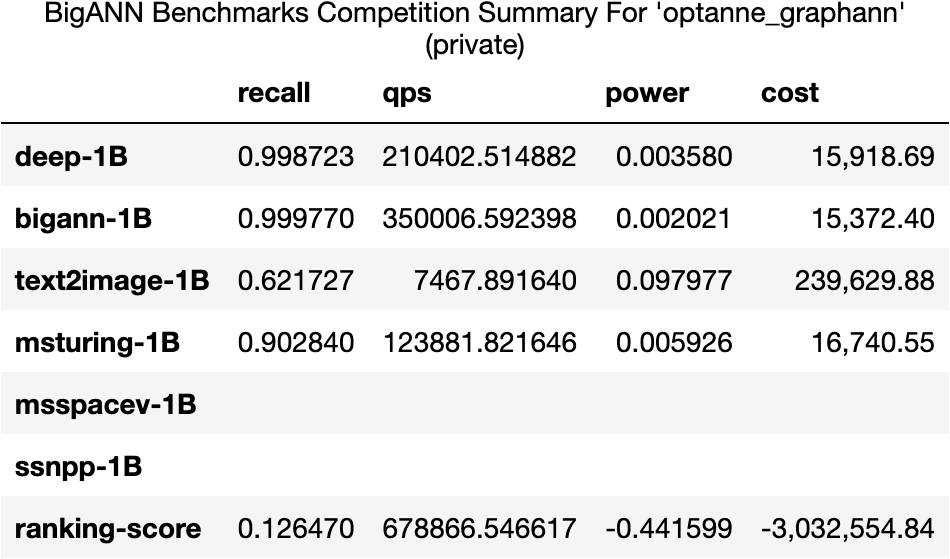
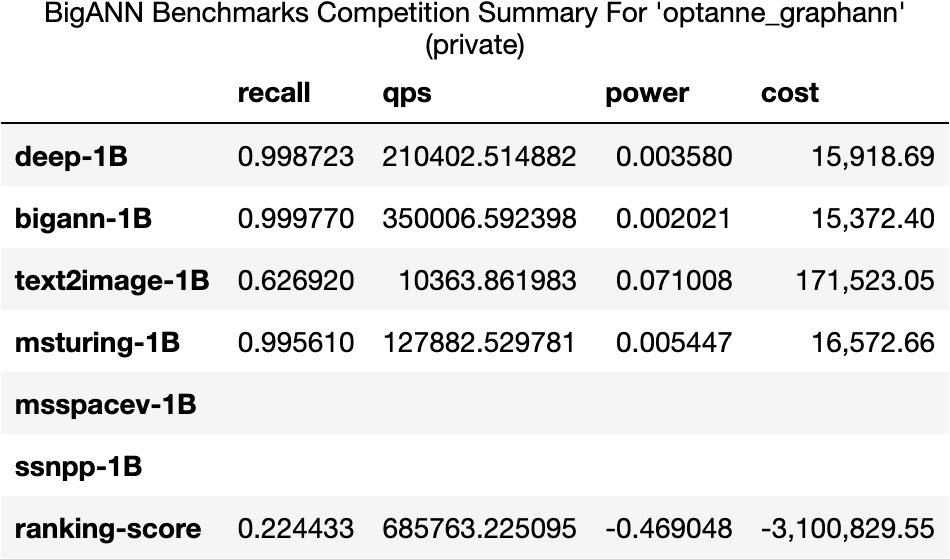
latest private LB for all submissions ( ivfpq still needs re-run based on nvidia power capture )

diff --git a/t3/run_eval.py b/t3/run_eval.py
@@ -59,8 +59,10 @@ SUBM_MAPPING            = \
         # last -  "results_dir":  "%s/intel/results_updated_config_with_anomaly_mitigation" % CACHE_RESULTS_TOPLEVEL,
         # last - "results_dir":  ( "%s/intel/public/results_final_changes_to_3_dsets" %  CACHE_RESULTS_TOPLEVEL ) if PUBLIC else \
         #    "%s/intel/private/results_intel_priv_all" % CACHE_RESULTS_TOPLEVEL, 
+        # last - "results_dir":  ( "%s/intel/public/results_final_changes_to_3_dsets" %  CACHE_RESULTS_TOPLEVEL ) if PUBLIC else \
+        #    "%s/intel/private/results_intel_priv_synced_config_all" % CACHE_RESULTS_TOPLEVEL, 
         "results_dir":  ( "%s/intel/public/results_final_changes_to_3_dsets" %  CACHE_RESULTS_TOPLEVEL ) if PUBLIC else \
-            "%s/intel/private/results_intel_priv_synced_config_all" % CACHE_RESULTS_TOPLEVEL, 
+            "%s/intel/private/results_intel_priv_merged_sync_1_2" % CACHE_RESULTS_TOPLEVEL, 
         "export_fname": "public_w_cache_detect.csv" if PUBLIC else \
             "private_w_cache_detect.csv",
         "cache_detect": True,
@@ -674,6 +676,7 @@ if __name__ == "__main__":
         #subms = [ "gemini", "faiss_t3", "cuanns_ivfpq", "optanne_graphann" ]
         #subms = [ "gemini" ]
         #subms = [ "cuanns_multigpu" ]
+        #subms = [ "optanne_graphann" ]
 
     # export and/or produce summary and evals json  
     if RE_EXPORT or PROCESS_CSV: 

diff --git a/t3/LEADERBOARDS_PRIVATE.md b/t3/LEADERBOARDS_PRIVATE.md
@@ -10,10 +10,10 @@ Please note that all rankings and winners are unofficial until all [open tasks a
 |--------------------|-----------|----------|---------|---------|---------|--------|---------|---------|---------|---------|--------|
 |[diskann](https://github.com/harsha-simhadri/big-ann-benchmarks/blob/gw/T3/t3/diskann-bare-metal/README.md)  |Microsoft Research India(*org*)    |Dell PowerEdge   |*NQ*  |*NQ*  |*NQ*  |*NQ* |eval   |*NA*  |[Harsha Simhadri](https://github.com/harsha-simhadri)  |[src](https://github.com/harsha-simhadri/big-ann-benchmarks/blob/gw/T3/benchmark/algorithms/diskann-t2.py)  |NA |
 |[faiss_t3](https://github.com/harsha-simhadri/big-ann-benchmarks/blob/gw/T3/t3/faiss_t3/README.md)    |Facebook Research(*org*)     |NVidia GPU    |[5](#recall-or-ap-rankings)   |[5](#throughput-rankings)   |[5](#power-rankings)   |[4](#cost-rankings)  |eval    |0/49   |[George Williams](https://github.com/sourcesync)   |[src](https://github.com/harsha-simhadri/big-ann-benchmarks/blob/gw/T3/benchmark/algorithms/faiss_t3.py)   |[nb](https://github.com/harsha-simhadri/big-ann-benchmarks/blob/gw/T3/t3/eval_2021/faiss_t3/EvalPrivate.ipynb)  |
-|[gemini](https://github.com/harsha-simhadri/big-ann-benchmarks/blob/gw/T3/t3/gemini/README.md)  |GSI Technology(*org*)    |LedaE APU   |[2](#recall-or-ap-rankings)  |[4](#throughput-rankings)  |[4](#power-rankings)  |[5](#cost-rankings) |eval   |0/50  |[George Williams](https://github.com/sourcesync)  |[src](https://github.com/harsha-simhadri/big-ann-benchmarks/blob/gw/T3/benchmark/algorithms/gemini.py)  |[nb](https://github.com/harsha-simhadri/big-ann-benchmarks/blob/gw/T3/t3/eval_2021/gemini/EvalPrivate.ipynb) |
+|[gemini](https://github.com/harsha-simhadri/big-ann-benchmarks/blob/gw/T3/t3/gemini/README.md)  |GSI Technology(*org*)    |LedaE APU   |[3](#recall-or-ap-rankings)  |[4](#throughput-rankings)  |[4](#power-rankings)  |[5](#cost-rankings) |eval   |0/50  |[George Williams](https://github.com/sourcesync)  |[src](https://github.com/harsha-simhadri/big-ann-benchmarks/blob/gw/T3/benchmark/algorithms/gemini.py)  |[nb](https://github.com/harsha-simhadri/big-ann-benchmarks/blob/gw/T3/t3/eval_2021/gemini/EvalPrivate.ipynb) |
 |[cuanns_ivfpq](https://github.com/harsha-simhadri/big-ann-benchmarks/blob/gw/T3/t3/cuanns_ivfpq/README.md)  |NVidia    |NVidia GPU   |[1](#recall-or-ap-rankings)  |[3](#throughput-rankings)  |[1](#power-rankings)  |[2](#cost-rankings)\*\* |eval   |[5/40](https://github.com/harsha-simhadri/big-ann-benchmarks/blob/gw/T3/t3/cuanns_ivfpq/ANOMALIES.md)  |[George Williams](https://github.com/sourcesync)  |[src](https://github.com/harsha-simhadri/big-ann-benchmarks/blob/gw/T3/benchmark/algorithms/cuanns_ivfpq.py)  |[nb](https://github.com/harsha-simhadri/big-ann-benchmarks/blob/gw/T3/t3/eval_2021/cuanns_ivfpq/EvalPrivate.ipynb) |
-|[cuanns_multigpu](https://github.com/harsha-simhadri/big-ann-benchmarks/blob/gw/T3/t3/cuanns_multigpu/README.md)    |NVidia     |NVidia GPU    |[3](#recall-or-ap-rankings)   |[1](#throughput-rankings)   |[3](#power-rankings)   |[3](#cost-rankings)\*\*  |eval    |[3/30](https://github.com/harsha-simhadri/big-ann-benchmarks/blob/gw/T3/t3/cuanns_multigpu/ANOMALIES.md)   |[George Williams](https://github.com/sourcesync)   |[src](https://github.com/harsha-simhadri/big-ann-benchmarks/blob/gw/T3/benchmark/algorithms/cuanns_multigpu.py)   |NA  |
-|[optanne_graphann](https://github.com/harsha-simhadri/big-ann-benchmarks/blob/gw/T3/t3/optanne_graphann/README.md)|Intel   |Intel Optane  |[4](#recall-or-ap-rankings) |[2](#throughput-rankings) |[2](#power-rankings) |[1](#cost-rankings)|eval  |[4/40](https://github.com/harsha-simhadri/big-ann-benchmarks/blob/gw/T3/t3/optanne_graphann/ANOMALIES.md) |[George Williams](https://github.com/sourcesync) |[src](https://github.com/harsha-simhadri/big-ann-benchmarks/blob/gw/T3/benchmark/algorithms/graphann.py) |[nb](https://github.com/harsha-simhadri/big-ann-benchmarks/blob/gw/T3/t3/eval_2021/optanne_graphann/EvalPrivate.ipynb)|
+|[cuanns_multigpu](https://github.com/harsha-simhadri/big-ann-benchmarks/blob/gw/T3/t3/cuanns_multigpu/README.md)    |NVidia     |NVidia GPU    |[4](#recall-or-ap-rankings)   |[1](#throughput-rankings)   |[3](#power-rankings)   |[3](#cost-rankings)\*\*  |eval    |[3/30](https://github.com/harsha-simhadri/big-ann-benchmarks/blob/gw/T3/t3/cuanns_multigpu/ANOMALIES.md)   |[George Williams](https://github.com/sourcesync)   |[src](https://github.com/harsha-simhadri/big-ann-benchmarks/blob/gw/T3/benchmark/algorithms/cuanns_multigpu.py)   |NA  |
+|[optanne_graphann](https://github.com/harsha-simhadri/big-ann-benchmarks/blob/gw/T3/t3/optanne_graphann/README.md)|Intel   |Intel Optane  |[2](#recall-or-ap-rankings) |[2](#throughput-rankings) |[2](#power-rankings) |[1](#cost-rankings)|eval  |[4/40](https://github.com/harsha-simhadri/big-ann-benchmarks/blob/gw/T3/t3/optanne_graphann/ANOMALIES.md) |[George Williams](https://github.com/sourcesync) |[src](https://github.com/harsha-simhadri/big-ann-benchmarks/blob/gw/T3/benchmark/algorithms/graphann.py) |[nb](https://github.com/harsha-simhadri/big-ann-benchmarks/blob/gw/T3/t3/eval_2021/optanne_graphann/EvalPrivate.ipynb)|
 
 * Abbreviations used in chart:
   * *org* = submitted by challenge organizer, so subject to competition restrictions
@@ -33,9 +33,9 @@ Please note that all rankings and winners are unofficial until all [open tasks a
 |Rank|Submission        |Team   |Hardware|Status |Score      |[Deep1B](#deep1B-recall-rankings)|[BigANN](#bigann-recall-rankings)|[MSTuring](#msturing-recall-rankings)|[MSSpace](#msspace-recall-rankings)|[Text2Image](#text2image-recall-rankings)|[FBSSNet](#fbsimsearchnet-ap-rankings)|
 |----|------------------|-------|--------|-------|-----------|------|------|--------|-------|----------|-------|
 |   1|[cuanns_ivfpq](https://github.com/harsha-simhadri/big-ann-benchmarks/blob/gw/T3/t3/cuanns_ivfpq/README.md)|NVidia|NVidia GPU |eval|**0.226**|[0.99544](https://github.com/harsha-simhadri/big-ann-benchmarks/blob/gw/T3/t3/eval_2021/cuanns_ivfpq/private_deep-1B_recall.png) |[0.99882](https://github.com/harsha-simhadri/big-ann-benchmarks/blob/gw/T3/t3/eval_2021/cuanns_ivfpq/private_bigann-1B_recall.png) |[0.99054](https://github.com/harsha-simhadri/big-ann-benchmarks/blob/gw/T3/t3/eval_2021/cuanns_ivfpq/private_msturing-1B_recall.png)   |-  |[0.63732](https://github.com/harsha-simhadri/big-ann-benchmarks/blob/gw/T3/t3/eval_2021/cuanns_ivfpq/private_text2image-1B_recall.png)     |-  |
-|   2|[gemini](https://github.com/harsha-simhadri/big-ann-benchmarks/blob/gw/T3/t3/gemini/README.md)|GSI Technology(*org*)|LedaE APU |eval|**0.197**|[0.99185](https://github.com/harsha-simhadri/big-ann-benchmarks/blob/gw/T3/t3/eval_2021/gemini/private_deep-1B_recall.png) |[0.99452](https://github.com/harsha-simhadri/big-ann-benchmarks/blob/gw/T3/t3/eval_2021/gemini/private_bigann-1B_recall.png) |[0.97719](https://github.com/harsha-simhadri/big-ann-benchmarks/blob/gw/T3/t3/eval_2021/gemini/private_msturing-1B_recall.png)   |-  |[0.61895](https://github.com/harsha-simhadri/big-ann-benchmarks/blob/gw/T3/t3/eval_2021/gemini/private_text2image-1B_recall.png)     |[0.99672](https://github.com/harsha-simhadri/big-ann-benchmarks/blob/gw/T3/t3/eval_2021/gemini/private_ssnpp-1B_recall.png)  |
-|   3|[cuanns_multigpu](https://github.com/harsha-simhadri/big-ann-benchmarks/blob/gw/T3/t3/cuanns_multigpu/README.md)|NVidia|NVidia GPU |eval|**0.182**|[0.99551](https://github.com/harsha-simhadri/big-ann-benchmarks/blob/gw/T3/t3/eval_2021/cuanns_multigpu/private_deep-1B_recall.png) |[0.99872](https://github.com/harsha-simhadri/big-ann-benchmarks/blob/gw/T3/t3/eval_2021/cuanns_multigpu/private_bigann-1B_recall.png) |[0.98330](https://github.com/harsha-simhadri/big-ann-benchmarks/blob/gw/T3/t3/eval_2021/cuanns_multigpu/private_msturing-1B_recall.png)   |-  |-     |-  |
-|   4|[optanne_graphann](https://github.com/harsha-simhadri/big-ann-benchmarks/blob/gw/T3/t3/optanne_graphann/README.md)|Intel|Intel Optane |eval|**0.126**|[0.99872](https://github.com/harsha-simhadri/big-ann-benchmarks/blob/gw/T3/t3/eval_2021/optanne_graphann/private_deep-1B_recall.png) |[0.99977](https://github.com/harsha-simhadri/big-ann-benchmarks/blob/gw/T3/t3/eval_2021/optanne_graphann/private_bigann-1B_recall.png) |[0.90284](https://github.com/harsha-simhadri/big-ann-benchmarks/blob/gw/T3/t3/eval_2021/optanne_graphann/private_msturing-1B_recall.png)   |-  |[0.62173](https://github.com/harsha-simhadri/big-ann-benchmarks/blob/gw/T3/t3/eval_2021/optanne_graphann/private_text2image-1B_recall.png)     |-  |
+|   2|[optanne_graphann](https://github.com/harsha-simhadri/big-ann-benchmarks/blob/gw/T3/t3/optanne_graphann/README.md)|Intel|Intel Optane |eval|**0.224**|[0.99872](https://github.com/harsha-simhadri/big-ann-benchmarks/blob/gw/T3/t3/eval_2021/optanne_graphann/private_deep-1B_recall.png) |[0.99977](https://github.com/harsha-simhadri/big-ann-benchmarks/blob/gw/T3/t3/eval_2021/optanne_graphann/private_bigann-1B_recall.png) |[0.99561](https://github.com/harsha-simhadri/big-ann-benchmarks/blob/gw/T3/t3/eval_2021/optanne_graphann/private_msturing-1B_recall.png)   |-  |[0.62692](https://github.com/harsha-simhadri/big-ann-benchmarks/blob/gw/T3/t3/eval_2021/optanne_graphann/private_text2image-1B_recall.png)     |-  |
+|   3|[gemini](https://github.com/harsha-simhadri/big-ann-benchmarks/blob/gw/T3/t3/gemini/README.md)|GSI Technology(*org*)|LedaE APU |eval|**0.197**|[0.99185](https://github.com/harsha-simhadri/big-ann-benchmarks/blob/gw/T3/t3/eval_2021/gemini/private_deep-1B_recall.png) |[0.99452](https://github.com/harsha-simhadri/big-ann-benchmarks/blob/gw/T3/t3/eval_2021/gemini/private_bigann-1B_recall.png) |[0.97719](https://github.com/harsha-simhadri/big-ann-benchmarks/blob/gw/T3/t3/eval_2021/gemini/private_msturing-1B_recall.png)   |-  |[0.61895](https://github.com/harsha-simhadri/big-ann-benchmarks/blob/gw/T3/t3/eval_2021/gemini/private_text2image-1B_recall.png)     |[0.99672](https://github.com/harsha-simhadri/big-ann-benchmarks/blob/gw/T3/t3/eval_2021/gemini/private_ssnpp-1B_recall.png)  |
+|   4|[cuanns_multigpu](https://github.com/harsha-simhadri/big-ann-benchmarks/blob/gw/T3/t3/cuanns_multigpu/README.md)|NVidia|NVidia GPU |eval|**0.182**|[0.99551](https://github.com/harsha-simhadri/big-ann-benchmarks/blob/gw/T3/t3/eval_2021/cuanns_multigpu/private_deep-1B_recall.png) |[0.99872](https://github.com/harsha-simhadri/big-ann-benchmarks/blob/gw/T3/t3/eval_2021/cuanns_multigpu/private_bigann-1B_recall.png) |[0.98330](https://github.com/harsha-simhadri/big-ann-benchmarks/blob/gw/T3/t3/eval_2021/cuanns_multigpu/private_msturing-1B_recall.png)   |-  |-     |-  |
 |   5|[faiss_t3](https://github.com/harsha-simhadri/big-ann-benchmarks/blob/gw/T3/t3/faiss_t3/README.md)|Facebook Research(*org*)|NVidia GPU |eval|**baseline**|[0.94437](https://github.com/harsha-simhadri/big-ann-benchmarks/blob/gw/T3/t3/eval_2021/faiss_t3/private_deep-1B_recall.png) |[0.93604](https://github.com/harsha-simhadri/big-ann-benchmarks/blob/gw/T3/t3/eval_2021/faiss_t3/private_bigann-1B_recall.png) |[0.91513](https://github.com/harsha-simhadri/big-ann-benchmarks/blob/gw/T3/t3/eval_2021/faiss_t3/private_msturing-1B_recall.png)   |-  |[0.60105](https://github.com/harsha-simhadri/big-ann-benchmarks/blob/gw/T3/t3/eval_2021/faiss_t3/private_text2image-1B_recall.png)     |[0.98567](https://github.com/harsha-simhadri/big-ann-benchmarks/blob/gw/T3/t3/eval_2021/faiss_t3/private_ssnpp-1B_recall.png)  |
 |   6|[-](-)|-|- |-|**-**|- |- |-   |-  |-     |-  |
 
@@ -51,7 +51,7 @@ Please note that all rankings and winners are unofficial until all [open tasks a
 |Rank|Submission        |Team   |Hardware|Status |Score      |[Deep1B](#deep1B-throughput-rankings)|[BigANN](#bigann-throughput-rankings)|[MSTuring](#msturing-throughput-rankings)|[MSSpace](#msspace-throughput-rankings)|[Text2Image](#text2image-throughput-rankings)|[FBSSNet](#fbsimsearchnet-throughput-rankings)|
 |----|------------------|-------|--------|-------|-----------|------|------|--------|-------|----------|--------------|
 |   1|[cuanns_multigpu](https://github.com/harsha-simhadri/big-ann-benchmarks/blob/gw/T3/t3/cuanns_multigpu/README.md)|NVidia|NVidia GPU |eval|**2116124**|[968,840](https://github.com/harsha-simhadri/big-ann-benchmarks/blob/gw/T3/t3/eval_2021/cuanns_multigpu/private_deep-1B_throughput.png) |[764,700](https://github.com/harsha-simhadri/big-ann-benchmarks/blob/gw/T3/t3/eval_2021/cuanns_multigpu/private_bigann-1B_throughput.png) |[393,528](https://github.com/harsha-simhadri/big-ann-benchmarks/blob/gw/T3/t3/eval_2021/cuanns_multigpu/private_msturing-1B_throughput.png)   |-  |-     |-         |
-|   2|[optanne_graphann](https://github.com/harsha-simhadri/big-ann-benchmarks/blob/gw/T3/t3/optanne_graphann/README.md)|Intel|Intel Optane |eval|**678867**|[210,403](https://github.com/harsha-simhadri/big-ann-benchmarks/blob/gw/T3/t3/eval_2021/optanne_graphann/private_deep-1B_throughput.png) |[350,007](https://github.com/harsha-simhadri/big-ann-benchmarks/blob/gw/T3/t3/eval_2021/optanne_graphann/private_bigann-1B_throughput.png) |[123,882](https://github.com/harsha-simhadri/big-ann-benchmarks/blob/gw/T3/t3/eval_2021/optanne_graphann/private_msturing-1B_throughput.png)   |-  |[7,468](https://github.com/harsha-simhadri/big-ann-benchmarks/blob/gw/T3/t3/eval_2021/optanne_graphann/private_text2image-1B_throughput.png)     |-         | 
+|   2|[optanne_graphann](https://github.com/harsha-simhadri/big-ann-benchmarks/blob/gw/T3/t3/optanne_graphann/README.md)|Intel|Intel Optane |eval|**685763**|[210,403](https://github.com/harsha-simhadri/big-ann-benchmarks/blob/gw/T3/t3/eval_2021/optanne_graphann/private_deep-1B_throughput.png) |[350,007](https://github.com/harsha-simhadri/big-ann-benchmarks/blob/gw/T3/t3/eval_2021/optanne_graphann/private_bigann-1B_throughput.png) |[127,883](https://github.com/harsha-simhadri/big-ann-benchmarks/blob/gw/T3/t3/eval_2021/optanne_graphann/private_msturing-1B_throughput.png)   |-  |[10,364](https://github.com/harsha-simhadri/big-ann-benchmarks/blob/gw/T3/t3/eval_2021/optanne_graphann/private_text2image-1B_throughput.png)     |-         | 
 |   3|[cuanns_ivfpq](https://github.com/harsha-simhadri/big-ann-benchmarks/blob/gw/T3/t3/cuanns_ivfpq/README.md)|NVidia|NVidia GPU |eval|**292753**|[95,386](https://github.com/harsha-simhadri/big-ann-benchmarks/blob/gw/T3/t3/eval_2021/cuanns_ivfpq/private_deep-1B_throughput.png) |[86,004](https://github.com/harsha-simhadri/big-ann-benchmarks/blob/gw/T3/t3/eval_2021/cuanns_ivfpq/private_bigann-1B_throughput.png) |[103,361](https://github.com/harsha-simhadri/big-ann-benchmarks/blob/gw/T3/t3/eval_2021/cuanns_ivfpq/private_msturing-1B_throughput.png)   |-  |[20,894](https://github.com/harsha-simhadri/big-ann-benchmarks/blob/gw/T3/t3/eval_2021/cuanns_ivfpq/private_text2image-1B_throughput.png)     |-         | 
 |   4|[gemini](https://github.com/harsha-simhadri/big-ann-benchmarks/blob/gw/T3/t3/gemini/README.md)|GSI Technology(*org*)|LedaE APU |eval|**30425**|[12,345](https://github.com/harsha-simhadri/big-ann-benchmarks/blob/gw/T3/t3/eval_2021/gemini/private_deep-1B_throughput.png) |[10,868](https://github.com/harsha-simhadri/big-ann-benchmarks/blob/gw/T3/t3/eval_2021/gemini/private_bigann-1B_throughput.png) |[14,862](https://github.com/harsha-simhadri/big-ann-benchmarks/blob/gw/T3/t3/eval_2021/gemini/private_msturing-1B_throughput.png)   |-  |[2,154](https://github.com/harsha-simhadri/big-ann-benchmarks/blob/gw/T3/t3/eval_2021/gemini/private_text2image-1B_throughput.png)     |[9,343](https://github.com/harsha-simhadri/big-ann-benchmarks/blob/gw/T3/t3/eval_2021/gemini/private_ssnpp-1B_throughput.png)         | 
 |   5|[faiss_t3](https://github.com/harsha-simhadri/big-ann-benchmarks/blob/gw/T3/t3/faiss_t3/README.md)|Facebook Research(*org*)|NVidia GPU |eval|**baseline**|[5,035](https://github.com/harsha-simhadri/big-ann-benchmarks/blob/gw/T3/t3/eval_2021/faiss_t3/private_deep-1B_throughput.png) |[3,279](https://github.com/harsha-simhadri/big-ann-benchmarks/blob/gw/T3/t3/eval_2021/faiss_t3/private_bigann-1B_throughput.png) |[2,630](https://github.com/harsha-simhadri/big-ann-benchmarks/blob/gw/T3/t3/eval_2021/faiss_t3/private_msturing-1B_throughput.png)   |-  |[1,948](https://github.com/harsha-simhadri/big-ann-benchmarks/blob/gw/T3/t3/eval_2021/faiss_t3/private_text2image-1B_throughput.png)     |[6,256](https://github.com/harsha-simhadri/big-ann-benchmarks/blob/gw/T3/t3/eval_2021/faiss_t3/private_ssnpp-1B_throughput.png)         | 
@@ -69,7 +69,7 @@ Please note that all rankings and winners are unofficial until all [open tasks a
 |Rank|Submission        |Team   |Hardware|Status |Score      |[Deep1B](#deep1B-power-rankings)|[BigANN](#bigann-power-rankings)|[MSTuring](#msturing-power-rankings)|[MSSpace](#msspace-power-rankings)|[Text2Image](#text2image-power-rankings)|[FBSSNet](#fbsimsearchnet-power-rankings)|
 |----|------------------|-------|--------|-------|-----------|------|------|--------|-------|-----|-----|
 |   1|[cuanns_ivfpq](https://github.com/harsha-simhadri/big-ann-benchmarks/blob/gw/T3/t3/cuanns_multigpu/README.md)|NVidia|NVidia GPU |eval|**-0.536**|[0.0021](https://github.com/harsha-simhadri/big-ann-benchmarks/blob/gw/T3/t3/eval_2021/cuanns_ivfpq/private_deep-1B_power.png) |[0.0023](https://github.com/harsha-simhadri/big-ann-benchmarks/blob/gw/T3/t3/eval_2021/cuanns_ivfpq/private_bigann-1B_power.png) |[0.0020](https://github.com/harsha-simhadri/big-ann-benchmarks/blob/gw/T3/t3/eval_2021/cuanns_ivfpq/private_msturing-1B_power.png)   |-  |[0.0083](https://github.com/harsha-simhadri/big-ann-benchmarks/blob/gw/T3/t3/eval_2021/cuanns_ivfpq/private_text2image-1B_power.png)|-|
-|   2|[optanne_graphann](https://github.com/harsha-simhadri/big-ann-benchmarks/blob/gw/T3/t3/optanne_graphann/README.md)|Intel|Intel Optane |eval|**-0.442**|[0.0036](https://github.com/harsha-simhadri/big-ann-benchmarks/blob/gw/T3/t3/eval_2021/optanne_graphann/private_deep-1B_power.png) |[0.0020](https://github.com/harsha-simhadri/big-ann-benchmarks/blob/gw/T3/t3/eval_2021/optanne_graphann/private_bigann-1B_power.png) |[0.0059](https://github.com/harsha-simhadri/big-ann-benchmarks/blob/gw/T3/t3/eval_2021/optanne_graphann/private_msturing-1B_power.png)   |-  |[0.0980](https://github.com/harsha-simhadri/big-ann-benchmarks/blob/gw/T3/t3/eval_2021/optanne_graphann/private_text2image-1B_power.png)|-| 
+|   2|[optanne_graphann](https://github.com/harsha-simhadri/big-ann-benchmarks/blob/gw/T3/t3/optanne_graphann/README.md)|Intel|Intel Optane |eval|**-0.469**|[0.0036](https://github.com/harsha-simhadri/big-ann-benchmarks/blob/gw/T3/t3/eval_2021/optanne_graphann/private_deep-1B_power.png) |[0.0020](https://github.com/harsha-simhadri/big-ann-benchmarks/blob/gw/T3/t3/eval_2021/optanne_graphann/private_bigann-1B_power.png) |[0.0054](https://github.com/harsha-simhadri/big-ann-benchmarks/blob/gw/T3/t3/eval_2021/optanne_graphann/private_msturing-1B_power.png)   |-  |[0.0710](https://github.com/harsha-simhadri/big-ann-benchmarks/blob/gw/T3/t3/eval_2021/optanne_graphann/private_text2image-1B_power.png)|-| 
 |   3|[cuanns_multigpu](https://github.com/harsha-simhadri/big-ann-benchmarks/blob/gw/T3/t3/cuanns_ivfpq/README.md)|NVidia|NVidia GPU |eval|**-0.431**|[0.0025](https://github.com/harsha-simhadri/big-ann-benchmarks/blob/gw/T3/t3/eval_2021/cuanns_multigpu/private_deep-1B_power.png) |[0.0022](https://github.com/harsha-simhadri/big-ann-benchmarks/blob/gw/T3/t3/eval_2021/cuanns_multigpu/private_bigann-1B_power.png) |[0.0061](https://github.com/harsha-simhadri/big-ann-benchmarks/blob/gw/T3/t3/eval_2021/cuanns_multigpu/private_msturing-1B_power.png)   |-  |-|-| 
 |   4|[gemini](https://github.com/harsha-simhadri/big-ann-benchmarks/blob/gw/T3/t3/gemini/README.md)|GSI Technology(*org*)|LedaE APU |eval|**-0.232**|[0.0352](https://github.com/harsha-simhadri/big-ann-benchmarks/blob/gw/T3/t3/eval_2021/gemini/private_deep-1B_power.png) |[0.0342](https://github.com/harsha-simhadri/big-ann-benchmarks/blob/gw/T3/t3/eval_2021/gemini/private_bigann-1B_power.png) |[0.0250](https://github.com/harsha-simhadri/big-ann-benchmarks/blob/gw/T3/t3/eval_2021/gemini/private_msturing-1B_power.png)   |-  |[0.2661](https://github.com/harsha-simhadri/big-ann-benchmarks/blob/gw/T3/t3/eval_2021/gemini/private_text2image-1B_power.png)|[0.0433](https://github.com/harsha-simhadri/big-ann-benchmarks/blob/gw/T3/t3/eval_2021/gemini/private_ssnpp-1B_power.png)| 
 |   5|[faiss_t3](https://github.com/harsha-simhadri/big-ann-benchmarks/blob/gw/T3/t3/faiss_t3/README.md)|Facebook Research(*org*)|NVidia GPU |eval|**baseline**|[0.0923](https://github.com/harsha-simhadri/big-ann-benchmarks/blob/gw/T3/t3/eval_2021/faiss_t3/private_deep-1B_power.png) |[0.1623](https://github.com/harsha-simhadri/big-ann-benchmarks/blob/gw/T3/t3/eval_2021/faiss_t3/private_bigann-1B_power.png) |[0.1874](https://github.com/harsha-simhadri/big-ann-benchmarks/blob/gw/T3/t3/eval_2021/faiss_t3/private_msturing-1B_power.png)   |-  |[0.1091](https://github.com/harsha-simhadri/big-ann-benchmarks/blob/gw/T3/t3/eval_2021/faiss_t3/private_text2image-1B_power.png)|[0.0847](https://github.com/harsha-simhadri/big-ann-benchmarks/blob/gw/T3/t3/eval_2021/faiss_t3/private_ssnpp-1B_power.png)| 
@@ -86,7 +86,7 @@ Please note that all rankings and winners are unofficial until all [open tasks a
 
 |Rank|Submission        |Team   |Hardware|Status |Score      |[Deep1B](#deep1B-cost-rankings)|[BigANN](#bigann-cost-rankings)|[MSTuring](#msturing-cost-rankings)|[MSSpace](#msspace-cost-rankings)|[Text2Image](#text2image-cost-rankings)|[FBSSNet](#fbsimsearchnet-cost-rankings)|
 |----|------------------|-------|--------|-------|-----------|------|------|--------|-------|----------|--------------|
-|   1|[optanne_graphann](https://github.com/harsha-simhadri/big-ann-benchmarks/blob/gw/T3/t3/optanne_graphann/README.md)|Intel|Intel Optane |eval|**$-3,032,554.84**|$15,918.69 |$15,372.40 |$16,740.55   |-  |$239,629.88     |-         |
+|   1|[optanne_graphann](https://github.com/harsha-simhadri/big-ann-benchmarks/blob/gw/T3/t3/optanne_graphann/README.md)|Intel|Intel Optane |eval|**$-3,100,829.55**|$15,918.69 |$15,372.40 |$16,572.66   |-  |$171,523.05     |-         |
 |   2|[cuanns_ivfpq](https://github.com/harsha-simhadri/big-ann-benchmarks/blob/gw/T3/t3/cuanns_ivfpq/README.md)|NVidia|NVidia GPU |eval|**$-1,815,084.29\*\***|$300,721.93 |$300,793.63 |$150,691.36   |-  |$752,925.15     |-         |
 |   3|[cuanns_multigpu](https://github.com/harsha-simhadri/big-ann-benchmarks/blob/gw/T3/t3/cuanns_multigpu/README.md)|NVidia|NVidia GPU |eval|**$-1,683,055.85\*\***|$150,863.29 |$150,786.43 |$152,142.96   |-  |-     |-         |
 |   4|[faiss_t3](https://github.com/harsha-simhadri/big-ann-benchmarks/blob/gw/T3/t3/faiss_t3/README.md)|Facebook Research(*org*)|NVidia GPU |eval|**baseline**|$472,764.09 |$739,552.84 |$924,531.60   |-  |$1,183,367.83     |$382,013.99         |
@@ -264,11 +264,11 @@ Please note that all rankings and winners are unofficial until all [open tasks a
 
 |Rank|Submission                                             |Team                          |Hardware               |Status  |R@10           |
 |----|-------------------------------------------------------|------------------------------|-----------------------|--------|---------------|
-|   1|[cuanns_ivfpq](https://github.com/harsha-simhadri/big-ann-benchmarks/blob/gw/T3/t3/cuanns_ivfpq/README.md)                                   |NVidia                      |NVidia GPU               |eval|**[0.99054](https://github.com/harsha-simhadri/big-ann-benchmarks/blob/gw/T3/t3/eval_2021/cuanns_ivfpq/private_msturing-1B_recall.png)**    |
-|   2|[cuanns_multigpu](https://github.com/harsha-simhadri/big-ann-benchmarks/blob/gw/T3/t3/cuanns_multigpu/README.md)                                   |NVidia                      |NVidia GPU               |eval|**[0.98330](https://github.com/harsha-simhadri/big-ann-benchmarks/blob/gw/T3/t3/eval_2021/cuanns_multigpu/private_msturing-1B_recall.png)**    |
-|   3|[gemini](https://github.com/harsha-simhadri/big-ann-benchmarks/blob/gw/T3/t3/gemini/README.md)                                   |GSI Technology(*org*)                      |LedaE APU               |eval|**[0.97719](https://github.com/harsha-simhadri/big-ann-benchmarks/blob/gw/T3/t3/eval_2021/gemini/private_msturing-1B_recall.png)**    |
-|   4|[faiss_t3](https://github.com/harsha-simhadri/big-ann-benchmarks/blob/gw/T3/t3/faiss_t3/README.md)                                   |Facebook Research(*org*)                      |NVidia GPU               |eval|**[0.91513](https://github.com/harsha-simhadri/big-ann-benchmarks/blob/gw/T3/t3/eval_2021/faiss_t3/private_msturing-1B_recall.png)**    |
-|   5|[optanne_graphann](https://github.com/harsha-simhadri/big-ann-benchmarks/blob/gw/T3/t3/optanne_graphann/README.md)                                   |Intel                      |Intel Optane               |eval|**[0.90284](https://github.com/harsha-simhadri/big-ann-benchmarks/blob/gw/T3/t3/eval_2021/optanne_graphann/private_msturing-1B_recall.png)**    |
+|   1|[optanne_graphann](https://github.com/harsha-simhadri/big-ann-benchmarks/blob/gw/T3/t3/optanne_graphann/README.md)                                   |Intel                      |Intel Optane               |eval|**[0.99561](https://github.com/harsha-simhadri/big-ann-benchmarks/blob/gw/T3/t3/eval_2021/optanne_graphann/private_msturing-1B_recall.png)**    |
+|   2|[cuanns_ivfpq](https://github.com/harsha-simhadri/big-ann-benchmarks/blob/gw/T3/t3/cuanns_ivfpq/README.md)                                   |NVidia                      |NVidia GPU               |eval|**[0.99054](https://github.com/harsha-simhadri/big-ann-benchmarks/blob/gw/T3/t3/eval_2021/cuanns_ivfpq/private_msturing-1B_recall.png)**    |
+|   3|[cuanns_multigpu](https://github.com/harsha-simhadri/big-ann-benchmarks/blob/gw/T3/t3/cuanns_multigpu/README.md)                                   |NVidia                      |NVidia GPU               |eval|**[0.98330](https://github.com/harsha-simhadri/big-ann-benchmarks/blob/gw/T3/t3/eval_2021/cuanns_multigpu/private_msturing-1B_recall.png)**    |
+|   4|[gemini](https://github.com/harsha-simhadri/big-ann-benchmarks/blob/gw/T3/t3/gemini/README.md)                                   |GSI Technology(*org*)                      |LedaE APU               |eval|**[0.97719](https://github.com/harsha-simhadri/big-ann-benchmarks/blob/gw/T3/t3/eval_2021/gemini/private_msturing-1B_recall.png)**    |
+|   5|[faiss_t3](https://github.com/harsha-simhadri/big-ann-benchmarks/blob/gw/T3/t3/faiss_t3/README.md)                                   |Facebook Research(*org*)                      |NVidia GPU               |eval|**[0.91513](https://github.com/harsha-simhadri/big-ann-benchmarks/blob/gw/T3/t3/eval_2021/faiss_t3/private_msturing-1B_recall.png)**    |
 |   6|[-](-)                                   |-                      |-               |-|**-**    |
 
 * The operational point for ranking is 2000 QPS. We will use the highest recall for the search parameters that meet or exceed 2000 QPS.
@@ -282,7 +282,7 @@ Please note that all rankings and winners are unofficial until all [open tasks a
 |Rank|Submission                                             |Team                          |Hardware               |Status  |Q/S         |
 |----|-------------------------------------------------------|------------------------------|-----------------------|--------|------------|
 |   1|[cuanns_multigpu](https://github.com/harsha-simhadri/big-ann-benchmarks/blob/gw/T3/t3/cuanns_multigpu/README.md)                                   |NVidia                      |NVidia GPU               |eval|**[393,528](https://github.com/harsha-simhadri/big-ann-benchmarks/blob/gw/T3/t3/eval_2021/cuanns_multigpu/private_msturing-1B_throughput.png)** |
-|   2|[optanne_graphann](https://github.com/harsha-simhadri/big-ann-benchmarks/blob/gw/T3/t3/optanne_graphann/README.md)                                   |Intel                      |Intel Optane               |eval|**[123,882](https://github.com/harsha-simhadri/big-ann-benchmarks/blob/gw/T3/t3/eval_2021/optanne_graphann/private_msturing-1B_throughput.png)** |
+|   2|[optanne_graphann](https://github.com/harsha-simhadri/big-ann-benchmarks/blob/gw/T3/t3/optanne_graphann/README.md)                                   |Intel                      |Intel Optane               |eval|**[127,883](https://github.com/harsha-simhadri/big-ann-benchmarks/blob/gw/T3/t3/eval_2021/optanne_graphann/private_msturing-1B_throughput.png)** |
 |   3|[cuanns_ivfpq](https://github.com/harsha-simhadri/big-ann-benchmarks/blob/gw/T3/t3/cuanns_ivfpq/README.md)                                   |NVidia                      |NVidia GPU               |eval|**[103,361](https://github.com/harsha-simhadri/big-ann-benchmarks/blob/gw/T3/t3/eval_2021/cuanns_ivfpq/private_msturing-1B_throughput.png)** |
 |   4|[gemini](https://github.com/harsha-simhadri/big-ann-benchmarks/blob/gw/T3/t3/gemini/README.md)                                   |GSI Technology(*org*)                      |LedaE APU               |eval|**[14,862](https://github.com/harsha-simhadri/big-ann-benchmarks/blob/gw/T3/t3/eval_2021/gemini/private_msturing-1B_throughput.png)** |
 |   5|[faiss_t3](https://github.com/harsha-simhadri/big-ann-benchmarks/blob/gw/T3/t3/faiss_t3/README.md)                                   |Facebook Research(*org*)                      |NVidia GPU               |eval|**[2,630](https://github.com/harsha-simhadri/big-ann-benchmarks/blob/gw/T3/t3/eval_2021/faiss_t3/private_msturing-1B_throughput.png)** |
@@ -299,7 +299,7 @@ Please note that all rankings and winners are unofficial until all [open tasks a
 |Rank|Submission                                             |Team                          |Hardware               |Status|W*S/Q         |
 |----|-------------------------------------------------------|------------------------------|-----------------------|------|--------------|
 |   1|[cuanns_ivfpq](https://github.com/harsha-simhadri/big-ann-benchmarks/blob/gw/T3/t3/cuanns_ivfpq/README.md)                                   |NVidia                      |NVidia GPU               |eval|**[0.0020](https://github.com/harsha-simhadri/big-ann-benchmarks/blob/gw/T3/t3/eval_2021/cuanns_ivfpq/private_msturing-1B_power.png)** |
-|   2|[optanne_graphann](https://github.com/harsha-simhadri/big-ann-benchmarks/blob/gw/T3/t3/optanne_graphann/README.md)                                   |Intel                      |Intel Optane               |eval|**[0.0059](https://github.com/harsha-simhadri/big-ann-benchmarks/blob/gw/T3/t3/eval_2021/optanne_graphann/private_msturing-1B_power.png)** |
+|   2|[optanne_graphann](https://github.com/harsha-simhadri/big-ann-benchmarks/blob/gw/T3/t3/optanne_graphann/README.md)                                   |Intel                      |Intel Optane               |eval|**[0.0054](https://github.com/harsha-simhadri/big-ann-benchmarks/blob/gw/T3/t3/eval_2021/optanne_graphann/private_msturing-1B_power.png)** |
 |   3|[cuanns_multigpu](https://github.com/harsha-simhadri/big-ann-benchmarks/blob/gw/T3/t3/cuanns_multigpu/README.md)                                   |NVidia                      |NVidia GPU               |eval|**[0.0061](https://github.com/harsha-simhadri/big-ann-benchmarks/blob/gw/T3/t3/eval_2021/cuanns_multigpu/private_msturing-1B_power.png)** |
 |   4|[gemini](https://github.com/harsha-simhadri/big-ann-benchmarks/blob/gw/T3/t3/gemini/README.md)                                   |GSI Technology(*org*)                      |LedaE APU               |eval|**[0.0250](https://github.com/harsha-simhadri/big-ann-benchmarks/blob/gw/T3/t3/eval_2021/gemini/private_msturing-1B_power.png)** |
 |   5|[faiss_t3](https://github.com/harsha-simhadri/big-ann-benchmarks/blob/gw/T3/t3/faiss_t3/README.md)                                   |Facebook Research(*org*)                      |NVidia GPU               |eval|**[0.1874](https://github.com/harsha-simhadri/big-ann-benchmarks/blob/gw/T3/t3/eval_2021/faiss_t3/private_msturing-1B_power.png)** |
@@ -315,7 +315,7 @@ Please note that all rankings and winners are unofficial until all [open tasks a
 
 |Rank|Submission                          |Team                          |Hardware               |Status  |Cost          |capex   |opex    |unit cost|units@100K qps|KwH*4yrs  |
 |----|------------------------------------|------------------------------|-----------------------|--------|--------------|--------|--------|---------|--------------|----------|
-|   1|[optanne_graphann](https://github.com/harsha-simhadri/big-ann-benchmarks/blob/gw/T3/t3/optanne_graphann/README.md)                |Intel                      |Intel Optane               |eval|**$16,740.55**   |$14,664.20|$2,076.35|$14,664.20 |1      |20,763.490 |
+|   1|[optanne_graphann](https://github.com/harsha-simhadri/big-ann-benchmarks/blob/gw/T3/t3/optanne_graphann/README.md)                |Intel                      |Intel Optane               |eval|**$16,572.66**   |$14,664.20|$1,908.46|$14,664.20 |1      |19,084.644 |
 |   2|[cuanns_ivfpq](https://github.com/harsha-simhadri/big-ann-benchmarks/blob/gw/T3/t3/cuanns_ivfpq/README.md)                |NVidia                      |NVidia GPU               |eval|**$150,691.36\*\***   |$150,000.00|$691.36|$150,000.00 |1      |6,913.596 |         
 |   3|[cuanns_multigpu](https://github.com/harsha-simhadri/big-ann-benchmarks/blob/gw/T3/t3/cuanns_multigpu/README.md)                |NVidia                      |NVidia GPU               |eval|**$152,142.96\*\***   |$150,000.00|$2,142.96|$150,000.00 |1      |21,429.628 |       
 |   4|[gemini](https://github.com/harsha-simhadri/big-ann-benchmarks/blob/gw/T3/t3/gemini/README.md)                |GSI Technology(*org*)                      |LedaE APU               |eval|**$398,832.13**   |$390,086.62|$8,745.51|$55,726.66 |7      |87,455.147 |       
@@ -419,7 +419,7 @@ Please note that all rankings and winners are unofficial until all [open tasks a
 |Rank|Submission                                             |Team                          |Hardware               |Status  |R@10         |
 |----|-------------------------------------------------------|------------------------------|-----------------------|--------|-------------|
 |   1|[cuanns_ivfpq](https://github.com/harsha-simhadri/big-ann-benchmarks/blob/gw/T3/t3/cuanns_ivfpq/README.md)                                   |NVidia                      |NVidia GPU               |eval|**[0.63732](https://github.com/harsha-simhadri/big-ann-benchmarks/blob/gw/T3/t3/eval_2021/cuanns_ivfpq/private_text2image-1B_recall.png)**  |
-|   2|[optanne_graphann](https://github.com/harsha-simhadri/big-ann-benchmarks/blob/gw/T3/t3/optanne_graphann/README.md)                                   |Intel                      |Intel Optane               |eval|**[0.62173](https://github.com/harsha-simhadri/big-ann-benchmarks/blob/gw/T3/t3/eval_2021/optanne_graphann/private_text2image-1B_recall.png)**  |
+|   2|[optanne_graphann](https://github.com/harsha-simhadri/big-ann-benchmarks/blob/gw/T3/t3/optanne_graphann/README.md)                                   |Intel                      |Intel Optane               |eval|**[0.62692](https://github.com/harsha-simhadri/big-ann-benchmarks/blob/gw/T3/t3/eval_2021/optanne_graphann/private_text2image-1B_recall.png)**  |
 |   3|[gemini](https://github.com/harsha-simhadri/big-ann-benchmarks/blob/gw/T3/t3/gemini/README.md)                                   |GSI Technology(*org*)                      |LedaE APU               |eval|**[0.61895](https://github.com/harsha-simhadri/big-ann-benchmarks/blob/gw/T3/t3/eval_2021/gemini/private_text2image-1B_recall.png)**  |
 |   4|[faiss_t3](https://github.com/harsha-simhadri/big-ann-benchmarks/blob/gw/T3/t3/faiss_t3/README.md)                                   |Facebook Research(*org*)                      |NVidia GPU               |eval|**[0.60105](https://github.com/harsha-simhadri/big-ann-benchmarks/blob/gw/T3/t3/eval_2021/faiss_t3/private_text2image-1B_recall.png)**  |
 |   5|[-](-)                                   |-                      |-               |-|**-**  |
@@ -436,7 +436,7 @@ Please note that all rankings and winners are unofficial until all [open tasks a
 |Rank|Submission                                             |Team                          |Hardware               |Status  |Q/S         |
 |----|-------------------------------------------------------|------------------------------|-----------------------|--------|------------|
 |   1|[cuanns_ivfpq](https://github.com/harsha-simhadri/big-ann-benchmarks/blob/gw/T3/t3/cuanns_ivfpq/README.md)                                   |NVidia                      |NVidia GPU               |eval|**[20,894](https://github.com/harsha-simhadri/big-ann-benchmarks/blob/gw/T3/t3/eval_2021/cuanns_ivfpq/private_text2image-1B_throughput.png)** |
-|   2|[optanne_graphann](https://github.com/harsha-simhadri/big-ann-benchmarks/blob/gw/T3/t3/optanne_graphann/README.md)                                   |Intel                      |Intel Optane               |eval|**[7,468](https://github.com/harsha-simhadri/big-ann-benchmarks/blob/gw/T3/t3/eval_2021/optanne_graphann/private_text2image-1B_throughput.png)** |
+|   2|[optanne_graphann](https://github.com/harsha-simhadri/big-ann-benchmarks/blob/gw/T3/t3/optanne_graphann/README.md)                                   |Intel                      |Intel Optane               |eval|**[10,364](https://github.com/harsha-simhadri/big-ann-benchmarks/blob/gw/T3/t3/eval_2021/optanne_graphann/private_text2image-1B_throughput.png)** |
 |   3|[gemini](https://github.com/harsha-simhadri/big-ann-benchmarks/blob/gw/T3/t3/gemini/README.md)                                   |GSI Technology(*org*)                      |LedaE APU               |eval|**[2,154](https://github.com/harsha-simhadri/big-ann-benchmarks/blob/gw/T3/t3/eval_2021/gemini/private_text2image-1B_throughput.png)** |
 |   4|[faiss_t3](https://github.com/harsha-simhadri/big-ann-benchmarks/blob/gw/T3/t3/faiss_t3/README.md)                                   |Facebook Research(*org*)                      |NVidia GPU               |eval|**[1,948](https://github.com/harsha-simhadri/big-ann-benchmarks/blob/gw/T3/t3/eval_2021/faiss_t3/private_text2image-1B_throughput.png)** |
 |   5|[-](-)                                   |-                      |-               |-|**-** |
@@ -453,7 +453,7 @@ Please note that all rankings and winners are unofficial until all [open tasks a
 |Rank|Submission                                             |Team                          |Hardware               |Status  |W*S/Q      |
 |----|-------------------------------------------------------|------------------------------|-----------------------|--------|-----------|
 |   1|[cuanns_ivfpq](https://github.com/harsha-simhadri/big-ann-benchmarks/blob/gw/T3/t3/cuanns_ivfpq/README.md)                                   |NVidia                      |NVidia GPU               |eval|**[0.0083](https://github.com/harsha-simhadri/big-ann-benchmarks/blob/gw/T3/t3/eval_2021/cuanns_ivfpq/private_text2image-1B_power.png)**|
-|   2|[optanne_graphann](https://github.com/harsha-simhadri/big-ann-benchmarks/blob/gw/T3/t3/optanne_graphann/README.md)                                   |Intel                      |Intel Optane               |eval|**[0.0980](https://github.com/harsha-simhadri/big-ann-benchmarks/blob/gw/T3/t3/eval_2021/optanne_graphann/private_text2image-1B_power.png)**|
+|   2|[optanne_graphann](https://github.com/harsha-simhadri/big-ann-benchmarks/blob/gw/T3/t3/optanne_graphann/README.md)                                   |Intel                      |Intel Optane               |eval|**[0.0710](https://github.com/harsha-simhadri/big-ann-benchmarks/blob/gw/T3/t3/eval_2021/optanne_graphann/private_text2image-1B_power.png)**|
 |   3|[faiss_t3](https://github.com/harsha-simhadri/big-ann-benchmarks/blob/gw/T3/t3/faiss_t3/README.md)                                   |Facebook Research(*org*)                      |NVidia GPU               |eval|**[0.1091](https://github.com/harsha-simhadri/big-ann-benchmarks/blob/gw/T3/t3/eval_2021/faiss_t3/private_text2image-1B_power.png)**|
 |   4|[gemini](https://github.com/harsha-simhadri/big-ann-benchmarks/blob/gw/T3/t3/gemini/README.md)                                   |GSI Technology(*org*)                      |LedaE APU               |eval|**[0.2661](https://github.com/harsha-simhadri/big-ann-benchmarks/blob/gw/T3/t3/eval_2021/gemini/private_text2image-1B_power.png)**|
 |   5|[-](-)                                   |-                      |-               |-|**-**|
@@ -469,7 +469,7 @@ Please note that all rankings and winners are unofficial until all [open tasks a
 
 |Rank|Submission           |Team                          |Hardware             |Status  |Cost          |capex   |opex    |unit cost|units@100K qps|KwH*4yrs |
 |----|---------------------|------------------------------|---------------------|--------|--------------|--------|--------|---------|--------------|---------|
-|   1|[optanne_graphann](https://github.com/harsha-simhadri/big-ann-benchmarks/blob/gw/T3/t3/optanne_graphann/README.md) |Intel                      |Intel Optane             |eval|**$239,629.88**   |$205,298.80|$34,331.08|$14,664.20 |14      |343,310.787|
+|   1|[optanne_graphann](https://github.com/harsha-simhadri/big-ann-benchmarks/blob/gw/T3/t3/optanne_graphann/README.md) |Intel                      |Intel Optane             |eval|**$171,523.05**   |$146,642.00|$24,881.05|$14,664.20 |10      |248,810.537|
 |   2|[cuanns_ivfpq](https://github.com/harsha-simhadri/big-ann-benchmarks/blob/gw/T3/t3/cuanns_ivfpq/README.md) |NVidia                      |NVidia GPU             |eval|**$752,925.15\*\***   |$750,000.00|$2,925.15|$150,000.00 |5      |29,251.505| 
 |   3|[faiss_t3](https://github.com/harsha-simhadri/big-ann-benchmarks/blob/gw/T3/t3/faiss_t3/README.md) |Facebook Research(*org*)                      |NVidia GPU             |eval|**$1,183,367.83**   |$1,145,138.80|$38,229.03|$22,021.90 |52      |382,290.263| 
 |   4|[gemini](https://github.com/harsha-simhadri/big-ann-benchmarks/blob/gw/T3/t3/gemini/README.md) |GSI Technology(*org*)                      |LedaE APU             |eval|**$2,712,384.33**   |$2,619,153.02|$93,231.31|$55,726.66 |47      |932,313.075| 
